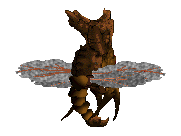
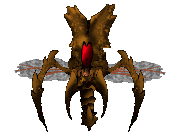
add basic enemy billboard

Changed region(s): [[0.0829, 0.0294, 0.9116, 0.9706], [0.6906, 0.9412, 0.7182, 0.9706]]

diff --git a/src/enemy.cpp b/src/enemy.cpp
@@ -1,0 +1,55 @@
+#include "enemy.hpp"
+
+#include "resource.hpp"
+#include "shader.hpp"
+#include "globals.hpp"
+
+#include <glad/glad.h>
+#include <glm/gtc/matrix_transform.hpp>
+#include <glm/gtc/type_ptr.hpp>
+
+enum EnemyAnimation {
+    ENEMY_ANIMATION_IDLE
+};
+
+Enemy::Enemy() {
+    position = glm::vec3(0.0f, 1.0f, -1.0f);
+    direction = glm::vec3(0.0f, 0.0f, 1.0f);
+
+    animation.add_animation(ENEMY_ANIMATION_IDLE, {
+        .start_frame = 0,
+        .end_frame = 2,
+        .frame_time = 2.0f,
+    });
+}
+
+void Enemy::update(float delta) {
+    animation.update(delta);
+}
+
+void Enemy::render(glm::vec3 player_position) {
+    glUniform2iv(glGetUniformLocation(billboard_shader, "extents"), 1, glm::value_ptr(resource_extents[resource_wasp]));
+
+    glm::vec3 facing_direction = glm::normalize(glm::vec3(player_position.x, position.y, player_position.z) - position);
+    glm::vec3 up = glm::vec3(0.0f, 1.0f, 0.0f);
+    if (std::abs(glm::dot(up, facing_direction)) == 1.0f) {
+        up = glm::vec3(0.0f, 0.0f, 1.0f);
+    }
+    glm::mat4 model = glm::inverse(glm::lookAt(position, position + facing_direction, up));
+    glUniformMatrix4fv(glGetUniformLocation(billboard_shader, "model"), 1, GL_FALSE, glm::value_ptr(model));
+    glUniform3fv(glGetUniformLocation(billboard_shader, "normal"), 1, glm::value_ptr(facing_direction));
+
+    float angle = atan2(direction.z - facing_direction.z, direction.x - facing_direction.x) * (180 / 3.14) * 2;
+    if (angle > 180.0f) {
+        angle = -(360.0f - angle);
+    }
+    unsigned int animation_offset = (unsigned int)(abs(angle) / 36.0f);
+    bool flip_h = angle < 0.0f && animation_offset >= 1 && animation_offset <= 3;
+
+    glUniform1ui(glGetUniformLocation(billboard_shader, "flip_h"), flip_h);
+    glUniform1ui(glGetUniformLocation(billboard_shader, "frame"), animation.frame + (animation_offset * 3));
+
+    glBindTexture(GL_TEXTURE_2D_ARRAY, resource_wasp);
+    glBindVertexArray(quad_vao);
+    glDrawArrays(GL_TRIANGLES, 0, 6);
+}

diff --git a/src/player.cpp b/src/player.cpp
@@ -41,21 +41,16 @@ void Player::init() {
     reserve_ammo = 9 * 6;
 
     animation.add_animation(ANIMATION_PISTOL_IDLE, {
-        .texture_array = resource_player_pistol,
         .start_frame = 0,
         .end_frame = 0,
         .frame_time = 0.0f
     });
-
     animation.add_animation(ANIMATION_PISTOL_FIRE, {
-        .texture_array = resource_player_pistol,
         .start_frame = 1,
         .end_frame = 4,
         .frame_time = 1.0f
     });
-
     animation.add_animation(ANIMATION_PISTOL_RELOAD, {
-        .texture_array = resource_player_pistol,
         .start_frame = 5,
         .end_frame = 30,
         .frame_time = 1.0f
@@ -170,11 +165,12 @@ void Player::render() {
     glm::vec3 normal = glm::normalize(glm::vec3(basis[2]));
     glUniform3fv(glGetUniformLocation(billboard_shader, "normal"), 1, glm::value_ptr(normal));
     glUniform1ui(glGetUniformLocation(billboard_shader, "frame"), animation.frame);
+    glUniform1ui(glGetUniformLocation(billboard_shader, "flip_h"), false);
 
     // render gun
     glDisable(GL_DEPTH_TEST);
     glActiveTexture(GL_TEXTURE0);
-    glBindTexture(GL_TEXTURE_2D_ARRAY, animation.animation_info[animation.animation].texture_array);
+    glBindTexture(GL_TEXTURE_2D_ARRAY, resource_player_pistol);
     glDrawArrays(GL_TRIANGLES, 0, 6);
     glBindVertexArray(0);
 

diff --git a/src/scene.cpp b/src/scene.cpp
@@ -1,5 +1,6 @@
 #include "scene.hpp"
 
+#include "enemy.hpp"
 #include "player.hpp"
 #include "globals.hpp"
 #include "resource.hpp"
@@ -17,6 +18,7 @@ struct BulletHole {
 };
 
 Player player;
+Enemy enemy;
 std::vector<BulletHole> bullet_holes;
 
 void scene_init() {
@@ -40,6 +42,8 @@ void scene_update(float delta) {
             .normal = player.raycast_result.normal
         });
     }
+
+    enemy.update(delta);
 }
 
 void scene_render() {
@@ -62,6 +66,7 @@ void scene_render() {
     glUniform3fv(glGetUniformLocation(billboard_shader, "player_flashlight.position"), 1, glm::value_ptr(player.position));
     glUniform3fv(glGetUniformLocation(billboard_shader, "player_flashlight.direction"), 1, glm::value_ptr(player.flashlight_direction));
     glUniform1ui(glGetUniformLocation(billboard_shader, "frame"), 0);
+    glUniform1ui(glGetUniformLocation(billboard_shader, "flip_h"), false);
 
     // bind quad vertex
     glBlendFunc(GL_ONE, GL_ONE_MINUS_SRC_ALPHA);
@@ -82,6 +87,8 @@ void scene_render() {
         glUniform3fv(glGetUniformLocation(billboard_shader, "normal"), 1, glm::value_ptr(normal));
         glDrawArrays(GL_TRIANGLES, 0, 6);
     }
+
+    enemy.render(player.position);
 
     player.render();
 }

diff --git a/src/resource.cpp b/src/resource.cpp
@@ -24,6 +24,8 @@ const int TEXTURE_SIZE = 128;
 unsigned int resource_textures;
 unsigned int resource_player_pistol;
 unsigned int resource_bullet_hole;
+unsigned int resource_wasp;
+
 std::map<unsigned int, glm::ivec2> resource_extents;
 
 bool success = true;
@@ -96,6 +98,18 @@ bool resource_load_all() {
         .width = 32,
         .height = 32,
         .num_textures = 1,
+        .format = GL_RGBA,
+        .wrap_s = GL_CLAMP_TO_EDGE,
+        .wrap_t = GL_CLAMP_TO_EDGE,
+        .min_filter = GL_NEAREST_MIPMAP_LINEAR,
+        .mag_filter = GL_NEAREST_MIPMAP_LINEAR,
+        .generate_mipmaps = true
+    });
+    resource_load(&resource_wasp, {
+        .path = "./res/wasp",
+        .width = 181,
+        .height = 136,
+        .num_textures = 21,
         .format = GL_RGBA,
         .wrap_s = GL_CLAMP_TO_EDGE,
         .wrap_t = GL_CLAMP_TO_EDGE,

diff --git a/src/enemy.hpp b/src/enemy.hpp
@@ -1,0 +1,16 @@
+#pragma once
+
+#include "animation.hpp"
+
+#include <glm/glm.hpp>
+
+struct Enemy {
+    glm::vec3 position;
+    glm::vec3 direction;
+
+    Animation animation;
+
+    Enemy();
+    void update(float delta);
+    void render(glm::vec3 player_position);
+};

diff --git a/src/resource.hpp b/src/resource.hpp
@@ -6,6 +6,8 @@
 extern unsigned int resource_textures;
 extern unsigned int resource_player_pistol;
 extern unsigned int resource_bullet_hole;
+extern unsigned int resource_wasp;
+
 extern std::map<unsigned int, glm::ivec2> resource_extents;
 
 bool resource_load_all();

diff --git a/src/animation.hpp b/src/animation.hpp
@@ -3,7 +3,6 @@
 #include <map>
 
 struct AnimationInfo {
-    unsigned int texture_array;
     unsigned int start_frame;
     unsigned int end_frame;
     float frame_time;
